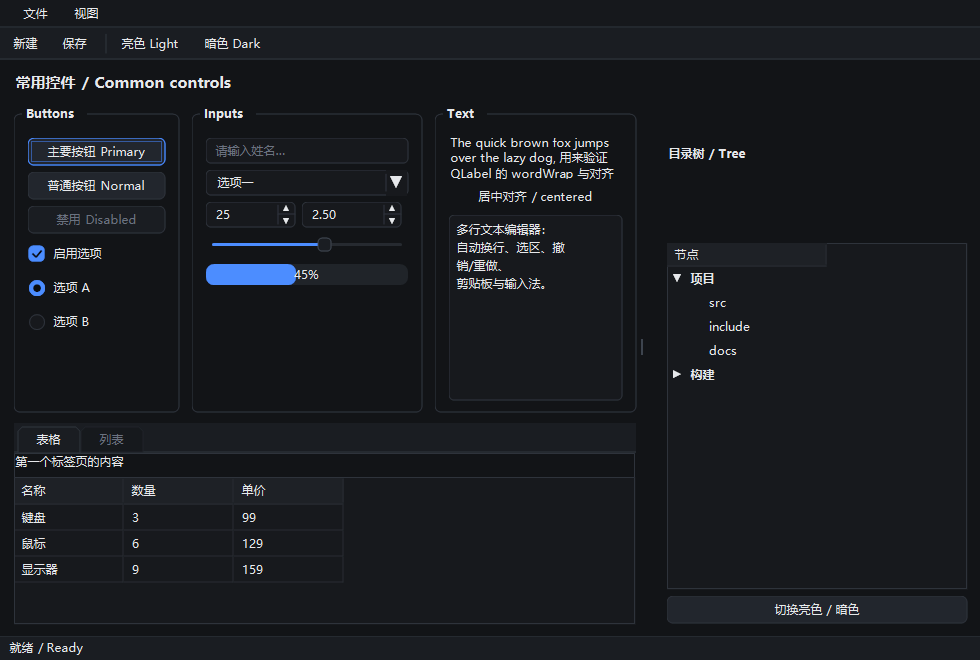
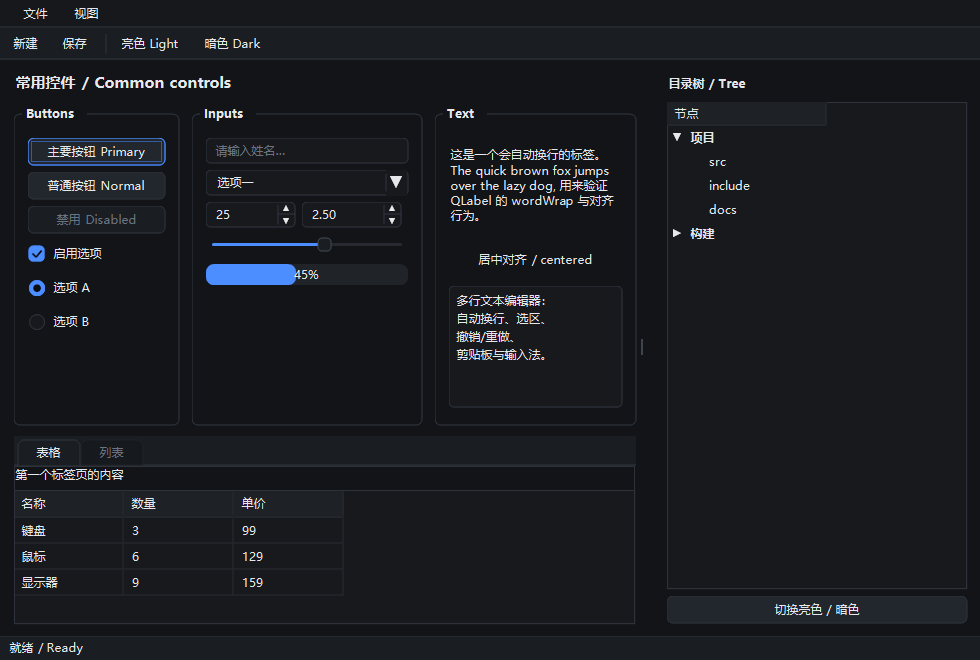
Add QTextEdit, fix layout destruction/space distribution and static widget registration

diff --git a/src/gui/qwidget.cpp b/src/gui/qwidget.cpp
@@ -150,8 +150,10 @@ void QTheme::setMode(Mode mode) {
 // ---------------------------------------------------------------------------
 Qt::Orientations QSizePolicy::expandingDirections() const {
     Qt::Orientations result = 0;
-    if (h_ & Expanding) result = result | Qt::Horizontal;
-    if (v_ & Expanding) result = result | Qt::Vertical;
+    // Preferred carries the grow flag (5 & 7 != 0) but must not be treated as
+    // expanding; only Expanding/MinimumExpanding may claim the surplus first.
+    if (h_ == Expanding || h_ == MinimumExpanding) result = result | Qt::Horizontal;
+    if (v_ == Expanding || v_ == MinimumExpanding) result = result | Qt::Vertical;
     return result;
 }
 
@@ -216,8 +218,11 @@ QWidget::~QWidget() {
     if (d_->ownerWindow) {
         if (d_->ownerWindow->hover == this) d_->ownerWindow->hover = 0;
     }
-    delete d_->layout;
+    // Null the pointer before deleting: QLayout's destructor calls
+    // setLayout(0) on its parent, which would otherwise delete it again.
+    QLayout* layout = d_->layout;
     d_->layout = 0;
+    delete layout;
     // children are deleted by QObject's destructor; detach them from the window first
     for (int i = 0; i < d_->children.count(); ++i) {
         QWidget* child = d_->children[i];
@@ -436,11 +441,15 @@ void QWidget::show() {
     }
     QShowEvent ev;
     event(&ev);
-    if (d_->layout) d_->layout->activate();
     for (int i = 0; i < d_->children.count(); ++i) {
         QWidget* child = d_->children[i];
         if (child->d_func()->explicitHide) continue;
         if (!child->d_func()->visible) child->show();
+    }
+    // Children are visible now, so the layout no longer skips them.
+    if (d_->layout) {
+        d_->layout->invalidate();
+        d_->layout->activate();
     }
 }
 
@@ -1108,7 +1117,32 @@ void QWidgetFactory::registerClass(const QWidgetClassInfo& info) {
     r.sorted = false;
 }
 
+extern void qtcWidgetAnchor_basic();
+extern void qtcWidgetAnchor_value();
+extern void qtcWidgetAnchor_containers();
+extern void qtcWidgetAnchor_views();
+extern void qtcWidgetAnchor_menus();
+extern void qtcWidgetAnchor_dialogs();
+extern void qtcWidgetAnchor_textedit();
+
+static void qtcLinkWidgetObjects() {
+    static bool linked = false;
+    if (linked) return;
+    linked = true;
+    // Referencing one symbol per translation unit keeps the object file (and
+    // therefore its static widget registrars) in the final binary even when
+    // the framework is consumed as a static library.
+    qtcWidgetAnchor_basic();
+    qtcWidgetAnchor_value();
+    qtcWidgetAnchor_containers();
+    qtcWidgetAnchor_views();
+    qtcWidgetAnchor_menus();
+    qtcWidgetAnchor_dialogs();
+    qtcWidgetAnchor_textedit();
+}
+
 QList<QWidgetClassInfo> QWidgetFactory::classes() {
+    qtcLinkWidgetObjects();
     return registry().classes;
 }
 
@@ -1124,6 +1158,7 @@ bool QWidgetFactory::isRegistered(const char* className) {
 }
 
 QWidget* QWidgetFactory::create(const char* className) {
+    qtcLinkWidgetObjects();
     const QWidgetClassInfo* info = classInfo(className);
     if (!info || !info->create) return 0;
     return info->create();

diff --git a/src/gui/qlayout.cpp b/src/gui/qlayout.cpp
@@ -41,7 +41,36 @@ void distribute(int total, int count, const int* mins, const int* hints, const i
             if (w <= 0 && expanding && expanding[i]) w = 1;
             weightTotal += w > 0 ? w : 0;
         }
-        if (weightTotal > 0) {
+        if (weightTotal == 0) {
+            // Qt semantics: items that may grow (Preferred and friends) also
+            // absorb surplus space, clamped by their maximum size.
+            int rest = extra;
+            int guard = 0;
+            while (rest > 0 && guard++ < 64) {
+                int eligible = 0;
+                for (int i = 0; i < count; ++i) {
+                    int mx = maxs ? maxs[i] : 0x7fffffff;
+                    if (mx <= 0) mx = 0x7fffffff;
+                    if (s[(size_t)i] < mx) ++eligible;
+                }
+                if (eligible == 0) break;
+                int share = rest / eligible;
+                if (share <= 0) share = 1;
+                int given = 0;
+                for (int i = 0; i < count && rest > 0; ++i) {
+                    int mx = maxs ? maxs[i] : 0x7fffffff;
+                    if (mx <= 0) mx = 0x7fffffff;
+                    if (s[(size_t)i] >= mx) continue;
+                    int add = share;
+                    if (add > mx - s[(size_t)i]) add = mx - s[(size_t)i];
+                    if (add > rest) add = rest;
+                    s[(size_t)i] += add;
+                    rest -= add;
+                    given += add;
+                }
+                if (given == 0) break;
+            }
+        } else if (weightTotal > 0) {
             int given = 0;
             for (int i = 0; i < count; ++i) {
                 int w = stretch ? stretch[i] : 0;
@@ -192,6 +221,11 @@ void QWidgetItem::setGeometry(const QRect& rect, Qt::Alignment alignment) {
         else if (alignment & Qt::AlignVCenter) r.setTop(rect.top() + (rect.height() - h) / 2);
         r.setBottom(r.top() + h - 1);
     }
+    // Respect the size policy: a Fixed-height widget must not be stretched
+    // just because the layout cell is taller.
+    QSize mx = maximumSize();
+    if (mx.width() > 0 && r.width() > mx.width()) r.setWidth(mx.width());
+    if (mx.height() > 0 && r.height() > mx.height()) r.setHeight(mx.height());
     widget_->setGeometry(r);
 }
 

diff --git a/tests/smoke.cpp b/tests/smoke.cpp
@@ -14,9 +14,11 @@ static void check(bool ok, const char* what) {
     ++g_checks;
     if (!ok) {
         printf("FAIL  %s\n", what);
+        fflush(stdout);
         ++g_failures;
     } else {
         printf("ok    %s\n", what);
+        fflush(stdout);
     }
 }
 
@@ -29,7 +31,7 @@ public:
 
 static void testCore() {
     check(QString("abc") == QString(L"abc"), "QString equality");
-    check(QString::fromUtf8("中文").size() == 2, "UTF-8 decoding");
+    check(QString::fromUtf8("\xE4\xB8\xAD\xE6\x96\x87").size() == 2, "UTF-8 decoding");
     check(QString("%1-%2").arg(1).arg(2) == QString(L"1-2"), "QString::arg");
     check(QString("a,b,c").split(L',').count() == 3, "QString::split");
     check(QVariant(QString("42")).toInt() == 42, "QVariant string -> int");
@@ -94,7 +96,22 @@ static void testWidgets() {
     host.show();
     layout->activate();
     check(b1->width() + b2->width() == 300, "box layout fills width");
-    check(b1->height() == 100, "box layout fills height");
+    check(b1->height() == b1->sizeHint().height(), "fixed height policy respected");
+
+    // a trailing stretch absorbs surplus space instead of stretching widgets
+    {
+        QWidget bar;
+        bar.resize(200, 40);
+        QHBoxLayout* row = new QHBoxLayout(&bar);
+        row->setContentsMargins(0, 0, 0, 0);
+        row->setSpacing(0);
+        QPushButton* fixedButton = new QPushButton(L"x");
+        row->addWidget(fixedButton);
+        row->addStretch(1);
+        bar.show();
+        row->activate();
+        check(fixedButton->width() == fixedButton->sizeHint().width(), "stretch takes surplus");
+    }
 
     // style sheet
     b1->setStyleSheet(L"QPushButton { background-color: #112233; border-radius: 4px; }");
@@ -157,12 +174,15 @@ static void testUiCompiler() {
     }
 }
 
-int main() {
+int main(int argc, char** argv) {
+    QApplication app(argc, argv);
     printf("== QtClone smoke tests ==\n");
+    fflush(stdout);
     testCore();
     testXml();
     testWidgets();
     testUiCompiler();
     printf("== %s: %d checks, %d failures ==\n", g_failures ? "FAILED" : "PASSED", g_checks, g_failures);
+    fflush(stdout);
     return g_failures ? 1 : 0;
 }

diff --git a/examples/gallery/gallery.cpp b/examples/gallery/gallery.cpp
@@ -65,6 +65,7 @@ private:
         radio1->setChecked(true);
         bl->addWidget(radio1);
         bl->addWidget(radio2);
+        bl->addStretch(1);
         topRow->addWidget(buttonBox, 1);
 
         // inputs
@@ -98,6 +99,7 @@ private:
         progress->setRange(0, 100);
         progress->setValue(45);
         il->addWidget(progress);
+        il->addStretch(1);
         topRow->addWidget(inputBox, 1);
 
         // text / notes
@@ -108,9 +110,11 @@ private:
         QLabel* wrapped = new QLabel(L"这是一个会自动换行的标签。The quick brown fox jumps over the lazy dog, "
                                      L"用来验证 QLabel 的 wordWrap 与对齐行为。");
         wrapped->setWordWrap(true);
+        wrapped->setMinimumSize(QSize(0, 96));
         tl->addWidget(wrapped);
         QLabel* centered = new QLabel(L"居中对齐 / centered");
         centered->setAlignment(Qt::AlignCenter);
+        centered->setMinimumSize(QSize(0, 40));
         tl->addWidget(centered);
         QTextEdit* notes = new QTextEdit();
         notes->setPlainText(L"多行文本编辑器：\n自动换行、选区、撤销/重做、\n剪贴板与输入法。");
@@ -161,6 +165,7 @@ private:
         QVBoxLayout* sl = new QVBoxLayout(side);
         sl->setContentsMargins(12, 12, 12, 12);
         QLabel* treeTitle = new QLabel(L"目录树 / Tree");
+        treeTitle->setMinimumSize(QSize(0, 24));
         QFont f = treeTitle->font();
         f.setBold(true);
         treeTitle->setFont(f);

diff --git a/include/qtc/QLayout.h b/include/qtc/QLayout.h
@@ -36,7 +36,8 @@ public:
     Qt::Orientations expandingDirections() const { return expanding_; }
     void setGeometry(const QRect& rect) { rect_ = rect; }
     QRect geometry() const { return rect_; }
-    bool isEmpty() const { return true; }
+    // A spacer occupies layout space; only widgets can be "empty" (hidden).
+    bool isEmpty() const { return false; }
     void changeSize(int w, int h, QSizePolicy::Policy hPolicy = QSizePolicy::Minimum,
                     QSizePolicy::Policy vPolicy = QSizePolicy::Minimum);
 private:

diff --git a/src/widgets/qwidgets_containers.cpp b/src/widgets/qwidgets_containers.cpp
@@ -750,3 +750,6 @@ QTC_REGISTER_WIDGET(QTabWidget, "Containers", "Tab Widget", "<qtc/QtWidgets.h>")
 QTC_REGISTER_WIDGET(QScrollArea, "Containers", "Scroll Area", "<qtc/QtWidgets.h>")
 QTC_REGISTER_WIDGET(QSplitter, "Containers", "Splitter", "<qtc/QtWidgets.h>")
 QTC_REGISTER_WIDGET(QStackedWidget, "Containers", "Stacked Widget", "<qtc/QtWidgets.h>")
+
+// Keeps this translation unit linked when the framework is a static library.
+void qtcWidgetAnchor_containers() {}

diff --git a/src/widgets/qwidgets_basic.cpp b/src/widgets/qwidgets_basic.cpp
@@ -725,3 +725,6 @@ QTC_REGISTER_WIDGET(QPushButton, "Buttons", "Push Button", "<qtc/QtWidgets.h>")
 QTC_REGISTER_WIDGET(QToolButton, "Buttons", "Tool Button", "<qtc/QtWidgets.h>")
 QTC_REGISTER_WIDGET(QCheckBox, "Buttons", "Check Box", "<qtc/QtWidgets.h>")
 QTC_REGISTER_WIDGET(QRadioButton, "Buttons", "Radio Button", "<qtc/QtWidgets.h>")
+
+// Keeps this translation unit linked when the framework is a static library.
+void qtcWidgetAnchor_basic() {}

diff --git a/src/widgets/qwidgets_value.cpp b/src/widgets/qwidgets_value.cpp
@@ -1684,3 +1684,6 @@ QTC_REGISTER_WIDGET(QSpinBox, "Input", "Spin Box", "<qtc/QtWidgets.h>")
 QTC_REGISTER_WIDGET(QDoubleSpinBox, "Input", "Double Spin Box", "<qtc/QtWidgets.h>")
 QTC_REGISTER_WIDGET(QComboBox, "Input", "Combo Box", "<qtc/QtWidgets.h>")
 QTC_REGISTER_WIDGET(QGroupBox, "Containers", "Group Box", "<qtc/QtWidgets.h>")
+
+// Keeps this translation unit linked when the framework is a static library.
+void qtcWidgetAnchor_value() {}

diff --git a/src/widgets/qwidgets_views.cpp b/src/widgets/qwidgets_views.cpp
@@ -1041,3 +1041,6 @@ void QTableWidget::wheelEvent(QWheelEvent* event) {
 QTC_REGISTER_WIDGET(QListWidget, "Item Views", "List Widget", "<qtc/QtWidgets.h>")
 QTC_REGISTER_WIDGET(QTreeWidget, "Item Views", "Tree Widget", "<qtc/QtWidgets.h>")
 QTC_REGISTER_WIDGET(QTableWidget, "Item Views", "Table Widget", "<qtc/QtWidgets.h>")
+
+// Keeps this translation unit linked when the framework is a static library.
+void qtcWidgetAnchor_views() {}

diff --git a/src/widgets/qwidgets_menus.cpp b/src/widgets/qwidgets_menus.cpp
@@ -980,3 +980,6 @@ QTC_REGISTER_WIDGET(QMenuBar, "Menus", "Menu Bar", "<qtc/QtWidgets.h>")
 QTC_REGISTER_WIDGET(QToolBar, "Menus", "Tool Bar", "<qtc/QtWidgets.h>")
 QTC_REGISTER_WIDGET(QStatusBar, "Menus", "Status Bar", "<qtc/QtWidgets.h>")
 QTC_REGISTER_WIDGET(QMainWindow, "Containers", "Main Window", "<qtc/QtWidgets.h>")
+
+// Keeps this translation unit linked when the framework is a static library.
+void qtcWidgetAnchor_menus() {}

diff --git a/src/widgets/qwidgets_dialogs.cpp b/src/widgets/qwidgets_dialogs.cpp
@@ -685,3 +685,6 @@ void QToolTip::showText(const QPoint& pos, const QString& text, QWidget*, int) {
 void QToolTip::hideText() { if (toolTipWindow()->isVisible()) toolTipWindow()->hide(); }
 bool QToolTip::isVisible() { return toolTipWindow()->isVisible(); }
 QString QToolTip::text() { return toolTipWindow()->text(); }
+
+// Keeps this translation unit linked when the framework is a static library.
+void qtcWidgetAnchor_dialogs() {}

diff --git a/src/widgets/qwidgets_textedit.cpp b/src/widgets/qwidgets_textedit.cpp
@@ -683,3 +683,6 @@ void QTextEdit::resizeEvent(QResizeEvent* event) {
 QSize QTextEdit::sizeHint() const { return QSize(320, 180); }
 
 QTC_REGISTER_WIDGET(QTextEdit, "Input", "Text Edit", "<qtc/QtWidgets.h>")
+
+// Keeps this translation unit linked when the framework is a static library.
+void qtcWidgetAnchor_textedit() {}
